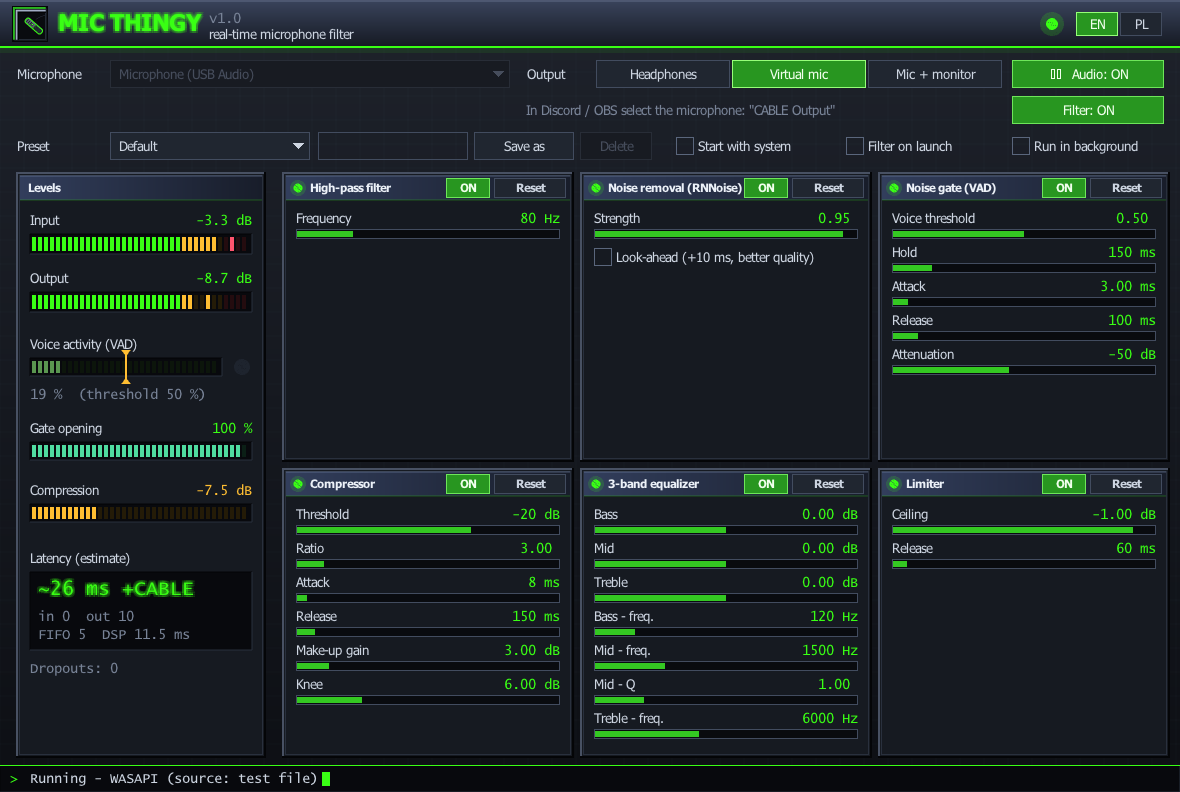
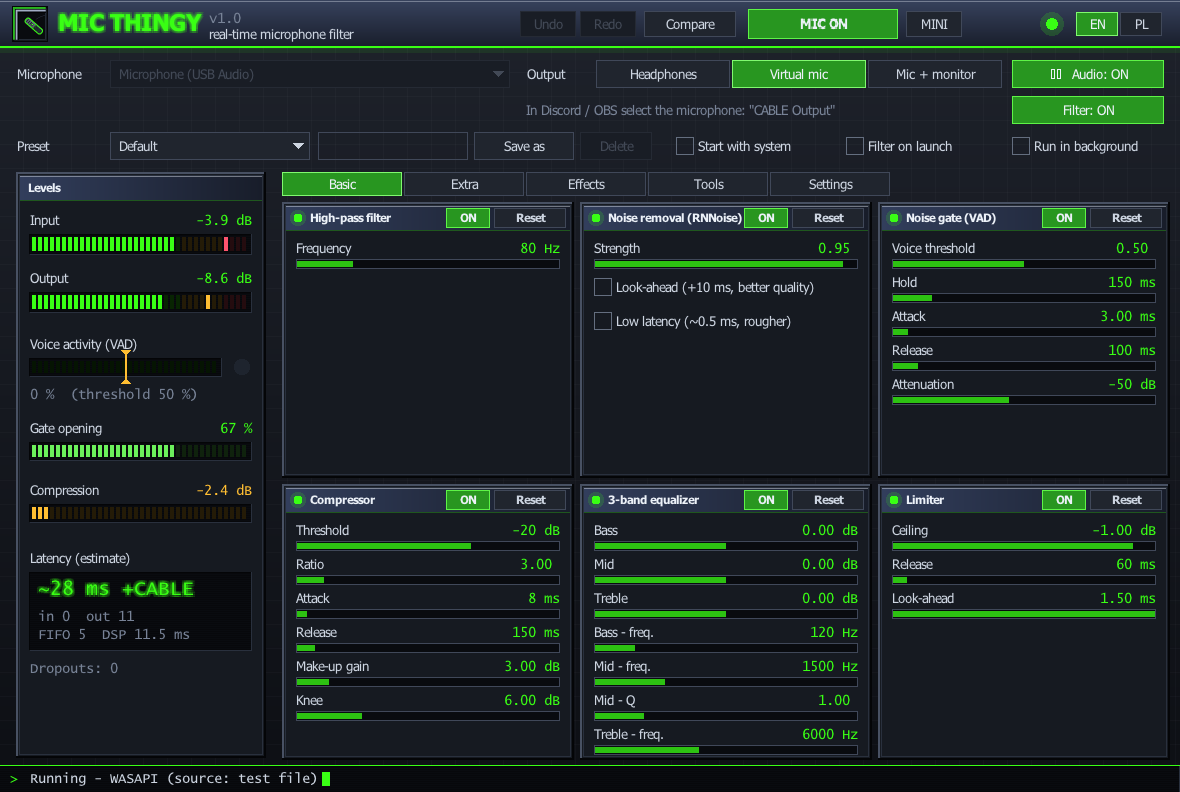
README: current screenshot (demo mode, no device names), window memory ~90 MB

diff --git a/README.md b/README.md
@@ -34,7 +34,7 @@ in the spirit of NVIDIA Broadcast / SteelSeries Sonar, but small, open and hacka
   undo/redo and hold-to-compare, per-microphone settings, presets per running program, preset copy/paste/drop,
   compact always-on-top window, in-game microphone indicator (Windows), three colour themes.
 - **Small when hidden**: in the tray the window and its OpenGL context are destroyed - about 1-3 MB of private
-  memory with the filter running (the open window needs ~70 MB, mostly the graphics driver).
+  memory with the filter running (the open window needs ~90 MB, mostly the graphics driver).
 - **Console version** (`mic-thingy-cli`) with live parameter commands, and offline test tools.
 - Real-time safe audio path: no allocation, locks or I/O in the callback; parameters via atomics, meters via a
   lock-free ring buffer.

diff --git a/README.pl.md b/README.pl.md
@@ -28,7 +28,7 @@ Linux: źródło PipeWire „mic thingy microphone”) albo wirtualny mikrofon +
   programów, kopiowanie i wklejanie presetów, małe okno zawsze na wierzchu, wskaźnik mikrofonu w grze (Windows),
   trzy motywy kolorów.
 - **Mały w tle**: w trayu okno i kontekst OpenGL są niszczone - ok. 1-3 MB prywatnej pamięci przy działającym
-  filtrze (otwarte okno to ok. 70 MB, głównie sterownik grafiki).
+  filtrze (otwarte okno to ok. 90 MB, głównie sterownik grafiki).
 
 ## Budowanie
 
